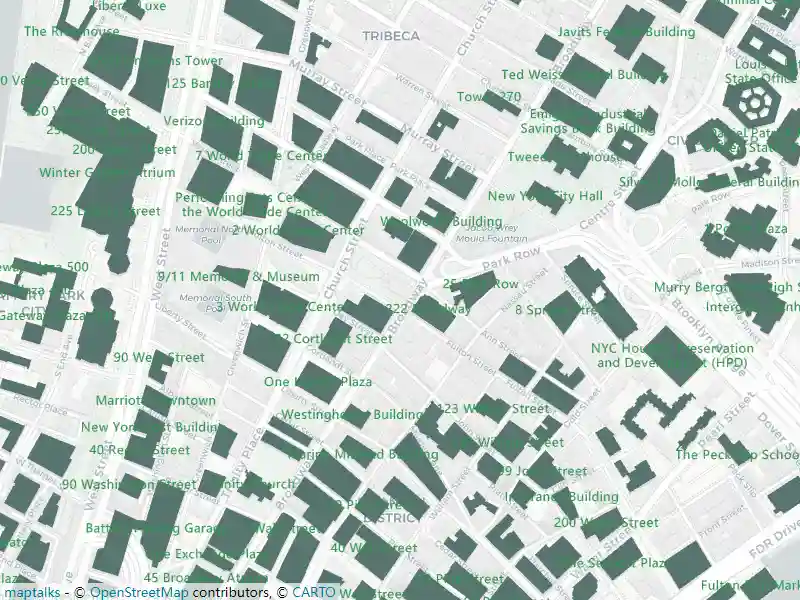
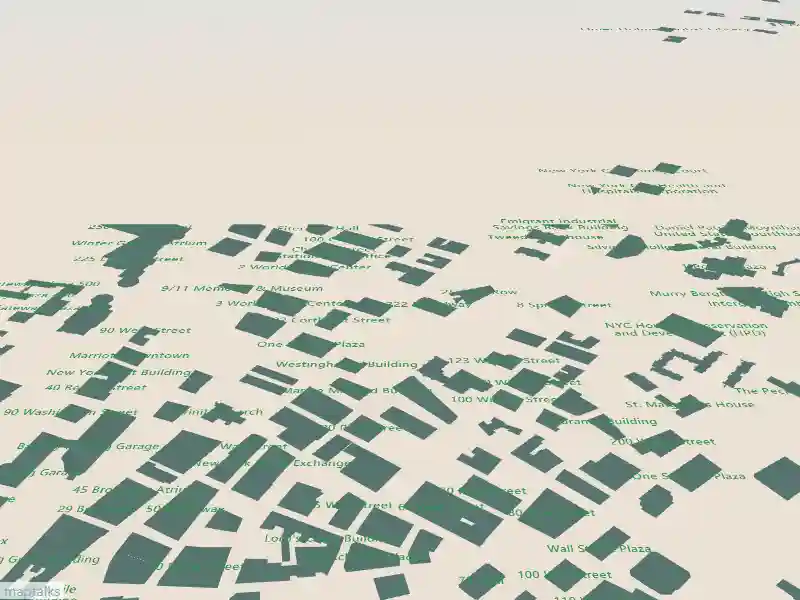
更新面类型数据样式示例缩略图

diff --git a/public/codes/vector/polygonstyle/bloom/index.js b/public/codes/vector/polygonstyle/bloom/index.js
@@ -1,11 +1,30 @@
+/**start**/
 const map = new maptalks.Map("map", {
   center: [-74.00912099912109, 40.71107610933129],
   zoom: 16,
-  baseLayer: new maptalks.TileLayer("base", {
-    urlTemplate: "{urlTemplate}",
-    subdomains: ["a", "b", "c", "d"],
-    attribution: "{attribution}",
-  }),
+  pitch: 60,
+  lights: {
+    directional: {
+      direction: [1, 0, -1],
+      color: [1, 1, 1],
+    },
+    ambient: {
+      resource: {
+        url: {
+          front: "{res}/hdr/gradient/front.png",
+          back: "{res}/hdr/gradient/back.png",
+          left: "{res}/hdr/gradient/left.png",
+          right: "{res}/hdr/gradient/right.png",
+          top: "{res}/hdr/gradient/top.png",
+          bottom: "{res}/hdr/gradient/bottom.png",
+        },
+        prefilterCubeSize: 1024,
+      },
+      exposure: 1,
+      hsv: [0, 0.34, 0],
+      orientation: 0,
+    },
+  },
 });
 
 const vt = new maptalks.VectorTileLayer("vt", {
@@ -35,8 +54,13 @@ const style = {
 vt.setStyle(style);
 
 const groupLayer = new maptalks.GroupGLLayer("group", [vt], {
-  // 需要先开启后处理中的 bloom 属性
   sceneConfig: {
+    environment: {
+      enable: true,
+      mode: 1,
+      level: 0,
+      brightness: 0,
+    },
     postProcess: {
       enable: true,
       bloom: {
@@ -46,6 +70,17 @@ const groupLayer = new maptalks.GroupGLLayer("group", [vt], {
         radius: 0.02,
       },
     },
+    ground: {
+      enable: true,
+      renderPlugin: {
+        type: "fill",
+      },
+      symbol: {
+        polygonFill: [0.3294117, 0.3294117, 0.3294117, 1],
+        polygonOpacity: 1,
+      },
+    },
   },
 });
 groupLayer.addTo(map);
+/**end**/

diff --git a/public/codes/vector/polygonstyle/border-style/index.js b/public/codes/vector/polygonstyle/border-style/index.js
@@ -1,11 +1,30 @@
+/**start**/
 const map = new maptalks.Map("map", {
   center: [-74.00912099912109, 40.71107610933129],
   zoom: 16,
-  baseLayer: new maptalks.TileLayer("base", {
-    urlTemplate: "{urlTemplate}",
-    subdomains: ["a", "b", "c", "d"],
-    attribution: "{attribution}",
-  }),
+  pitch: 60,
+  lights: {
+    directional: {
+      direction: [1, 0, -1],
+      color: [1, 1, 1],
+    },
+    ambient: {
+      resource: {
+        url: {
+          front: "{res}/hdr/gradient/front.png",
+          back: "{res}/hdr/gradient/back.png",
+          left: "{res}/hdr/gradient/left.png",
+          right: "{res}/hdr/gradient/right.png",
+          top: "{res}/hdr/gradient/top.png",
+          bottom: "{res}/hdr/gradient/bottom.png",
+        },
+        prefilterCubeSize: 1024,
+      },
+      exposure: 1,
+      hsv: [0, 0.34, 0],
+      orientation: 0,
+    },
+  },
 });
 
 const vt = new maptalks.VectorTileLayer("vt", {
@@ -49,5 +68,15 @@ const style = {
 };
 vt.setStyle(style);
 
-const groupLayer = new maptalks.GroupGLLayer("group", [vt]);
+const groupLayer = new maptalks.GroupGLLayer("group", [vt], {
+  sceneConfig: {
+    environment: {
+      enable: true,
+      mode: 1,
+      level: 0,
+      brightness: 0,
+    },
+  },
+});
 groupLayer.addTo(map);
+/**end**/

diff --git a/public/codes/vector/polygonstyle/draw-text/index.js b/public/codes/vector/polygonstyle/draw-text/index.js
@@ -1,11 +1,30 @@
+/**start**/
 const map = new maptalks.Map("map", {
   center: [-74.00912099912109, 40.71107610933129],
   zoom: 16,
-  baseLayer: new maptalks.TileLayer("base", {
-    urlTemplate: "{urlTemplate}",
-    subdomains: ["a", "b", "c", "d"],
-    attribution: "{attribution}",
-  }),
+  pitch: 60,
+  lights: {
+    directional: {
+      direction: [1, 0, -1],
+      color: [1, 1, 1],
+    },
+    ambient: {
+      resource: {
+        url: {
+          front: "{res}/hdr/gradient/front.png",
+          back: "{res}/hdr/gradient/back.png",
+          left: "{res}/hdr/gradient/left.png",
+          right: "{res}/hdr/gradient/right.png",
+          top: "{res}/hdr/gradient/top.png",
+          bottom: "{res}/hdr/gradient/bottom.png",
+        },
+        prefilterCubeSize: 1024,
+      },
+      exposure: 1,
+      hsv: [0, 0.34, 0],
+      orientation: 0,
+    },
+  },
 });
 
 const vt = new maptalks.VectorTileLayer("vt", {
@@ -58,5 +77,15 @@ const style = {
 };
 vt.setStyle(style);
 
-const groupLayer = new maptalks.GroupGLLayer("group", [vt]);
+const groupLayer = new maptalks.GroupGLLayer("group", [vt], {
+  sceneConfig: {
+    environment: {
+      enable: true,
+      mode: 1,
+      level: 0,
+      brightness: 0,
+    },
+  },
+});
 groupLayer.addTo(map);
+/**end**/
